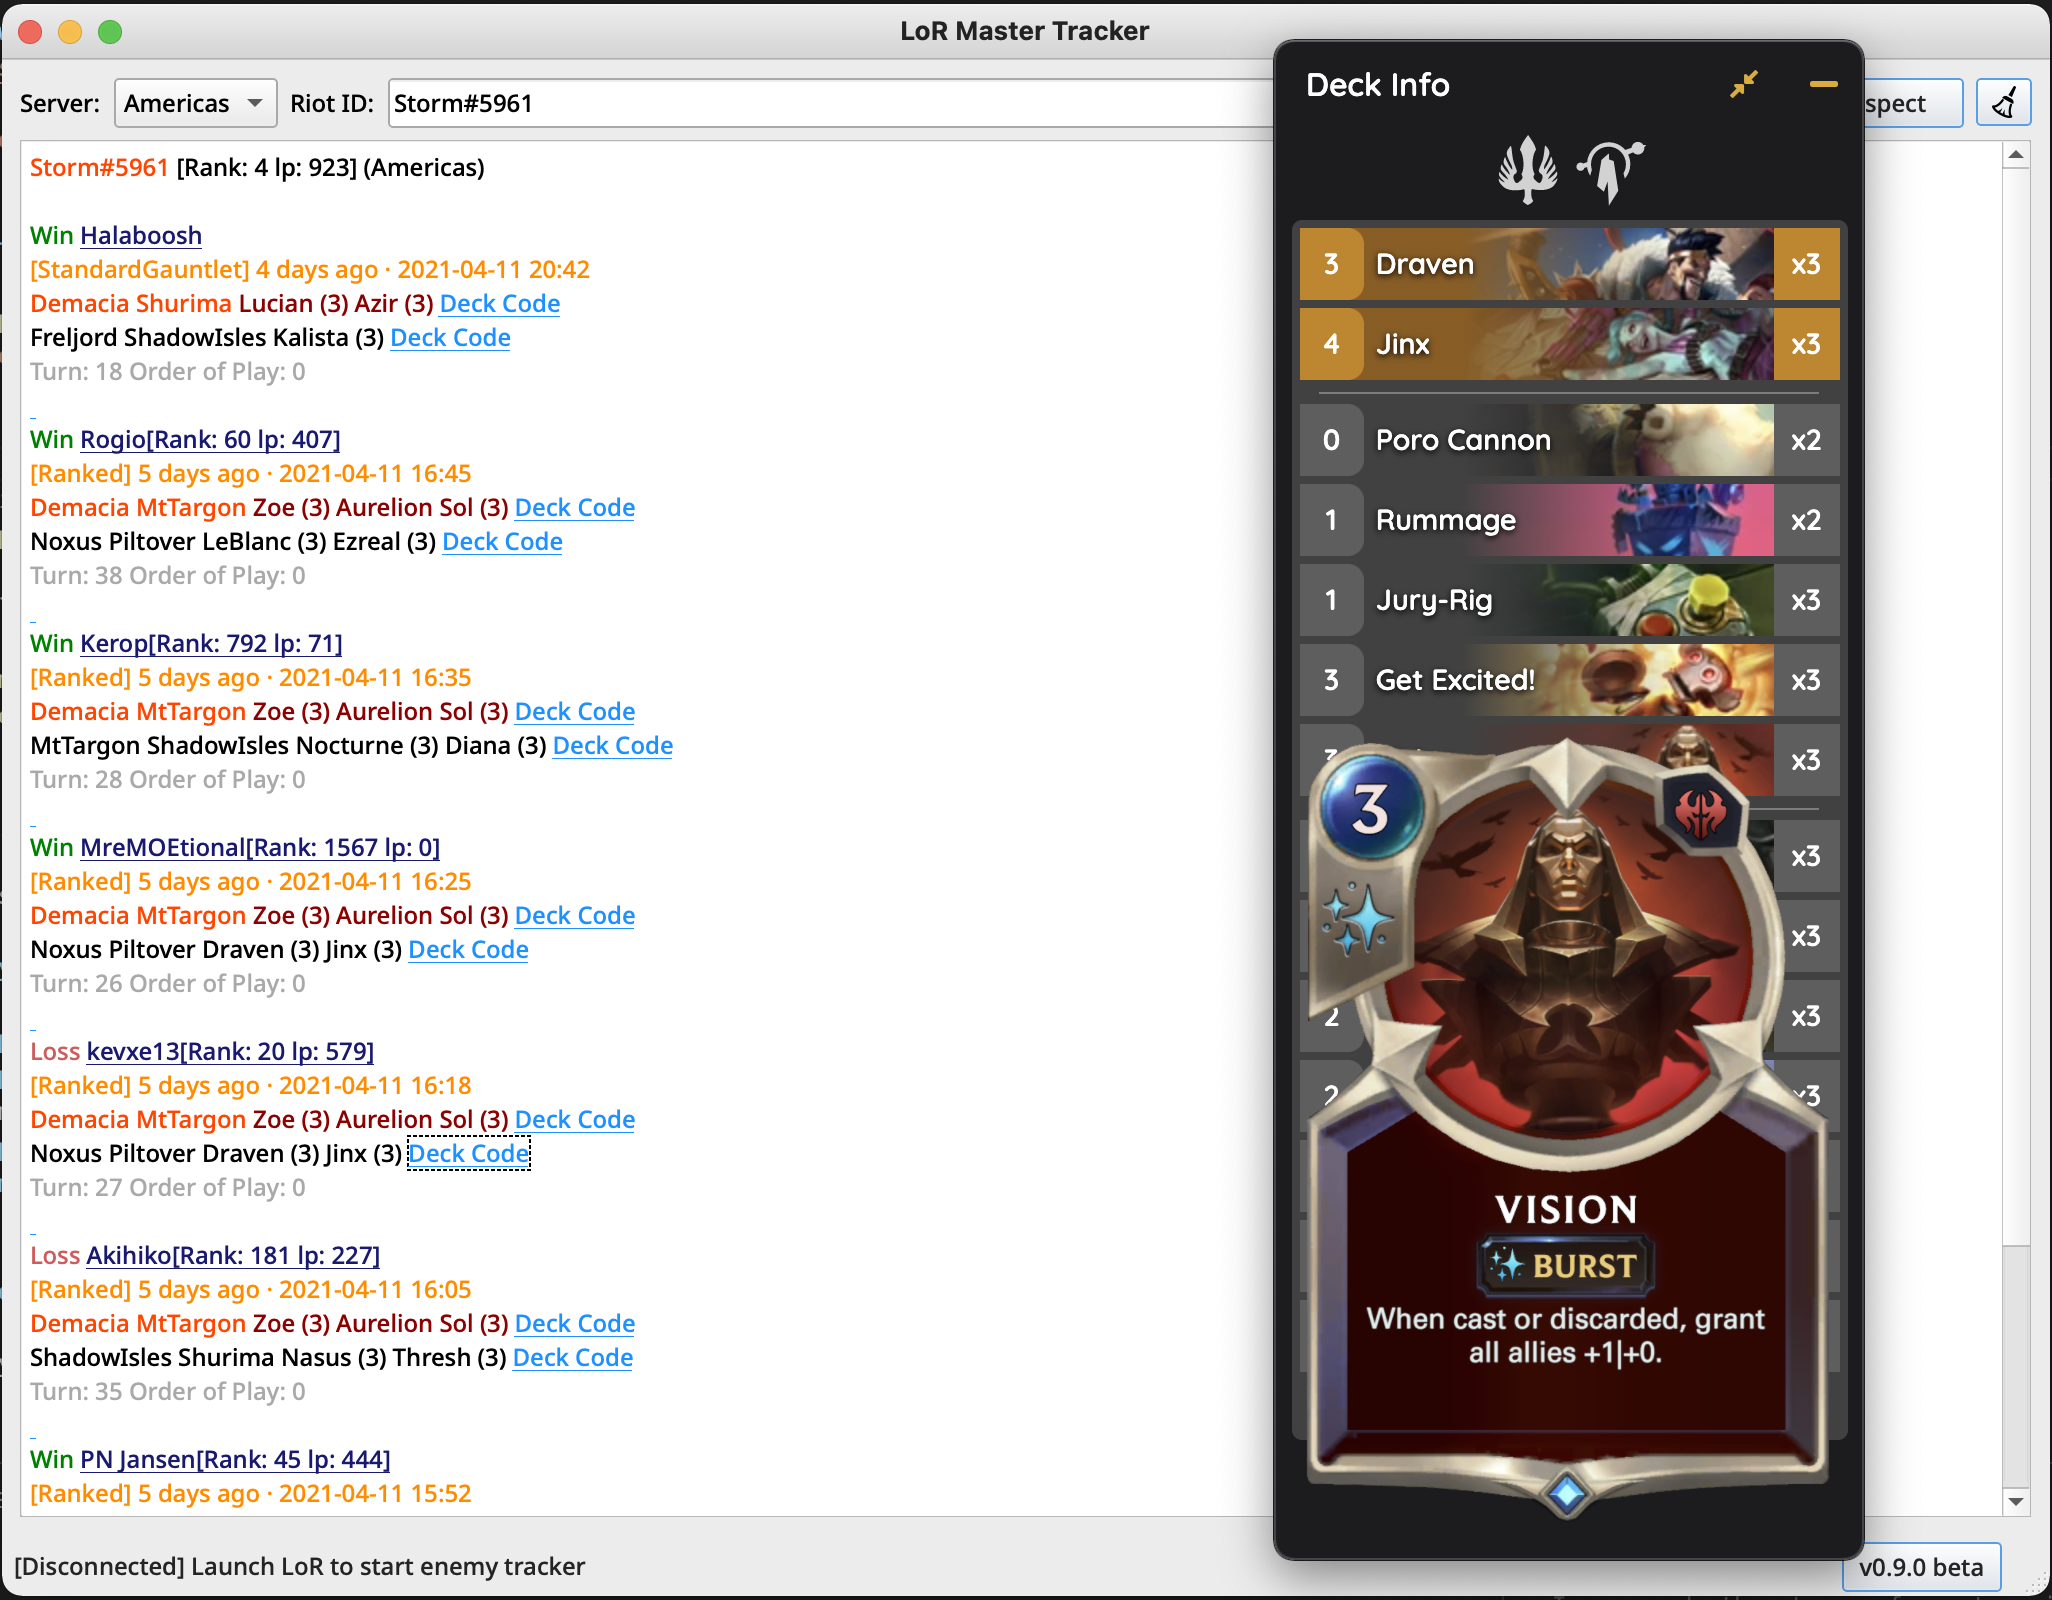
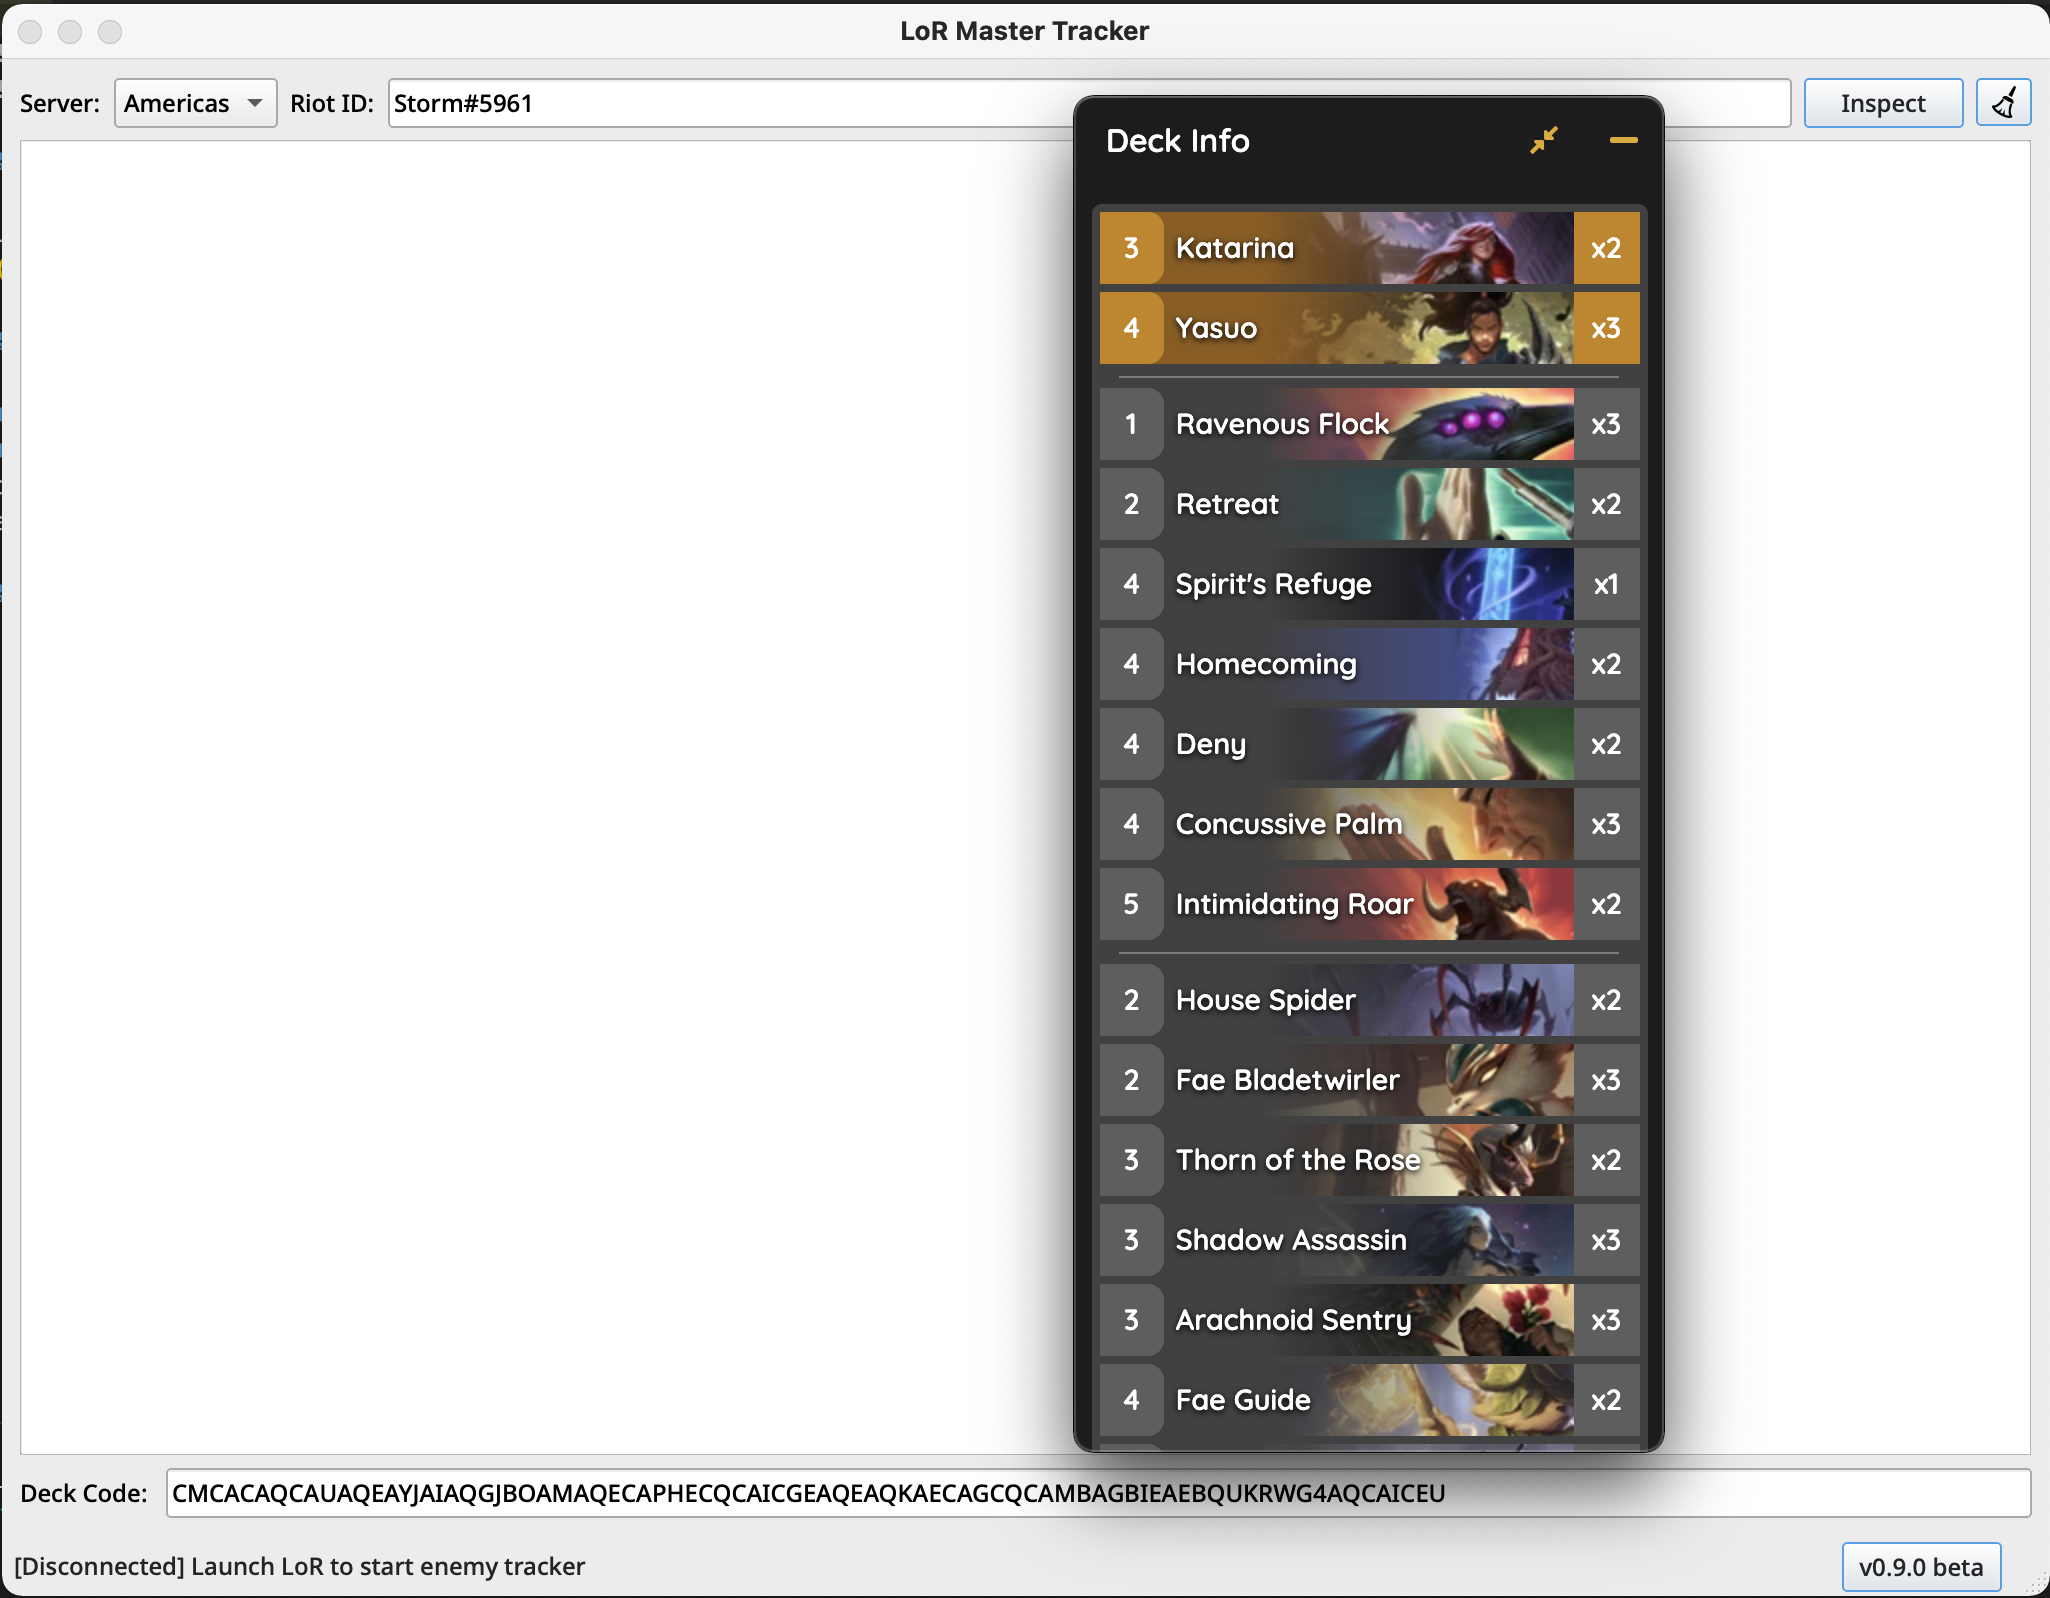
Update

diff --git a/README.md b/README.md
@@ -25,13 +25,16 @@ LoR Master Tracker is a history tracker and deck inspector for League of Runeter
 * **Player Match History Inspector**
 
     By simply providing the player name, LMT can inspect recent rank matches. Multiple Language player names are supported.
-![n](Preview/5.png)
-![b](Preview/1.png)
+![n](Preview/inspector.png)
+
+* **In-game Deck Code Viewer**
+
+    LMT can view the deck by entering the deck code. The viewer can display in-game.
+![b](Preview/viewer.png)
 
 * **In-game Enemy Deck Tracker**
 
     At the game beginning, the opponent deck, rank and lp automatically revealed by real-time enemy tracker.
-
 ![c](Preview/3.png)
 ![d](Preview/4.png)
 
